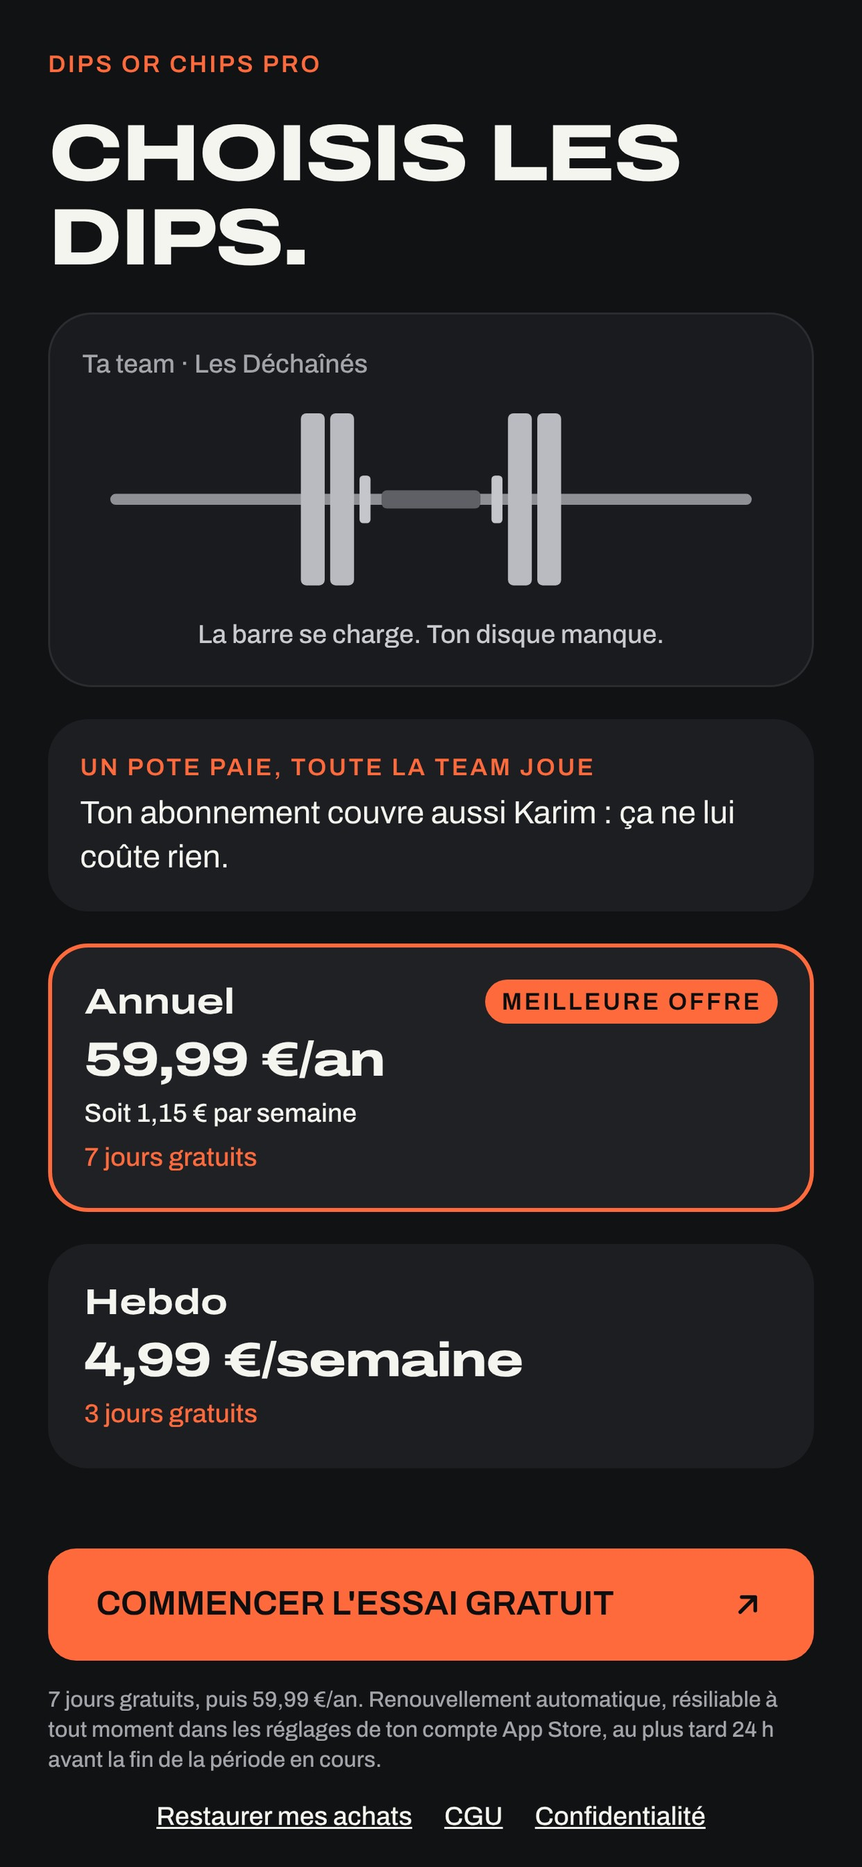
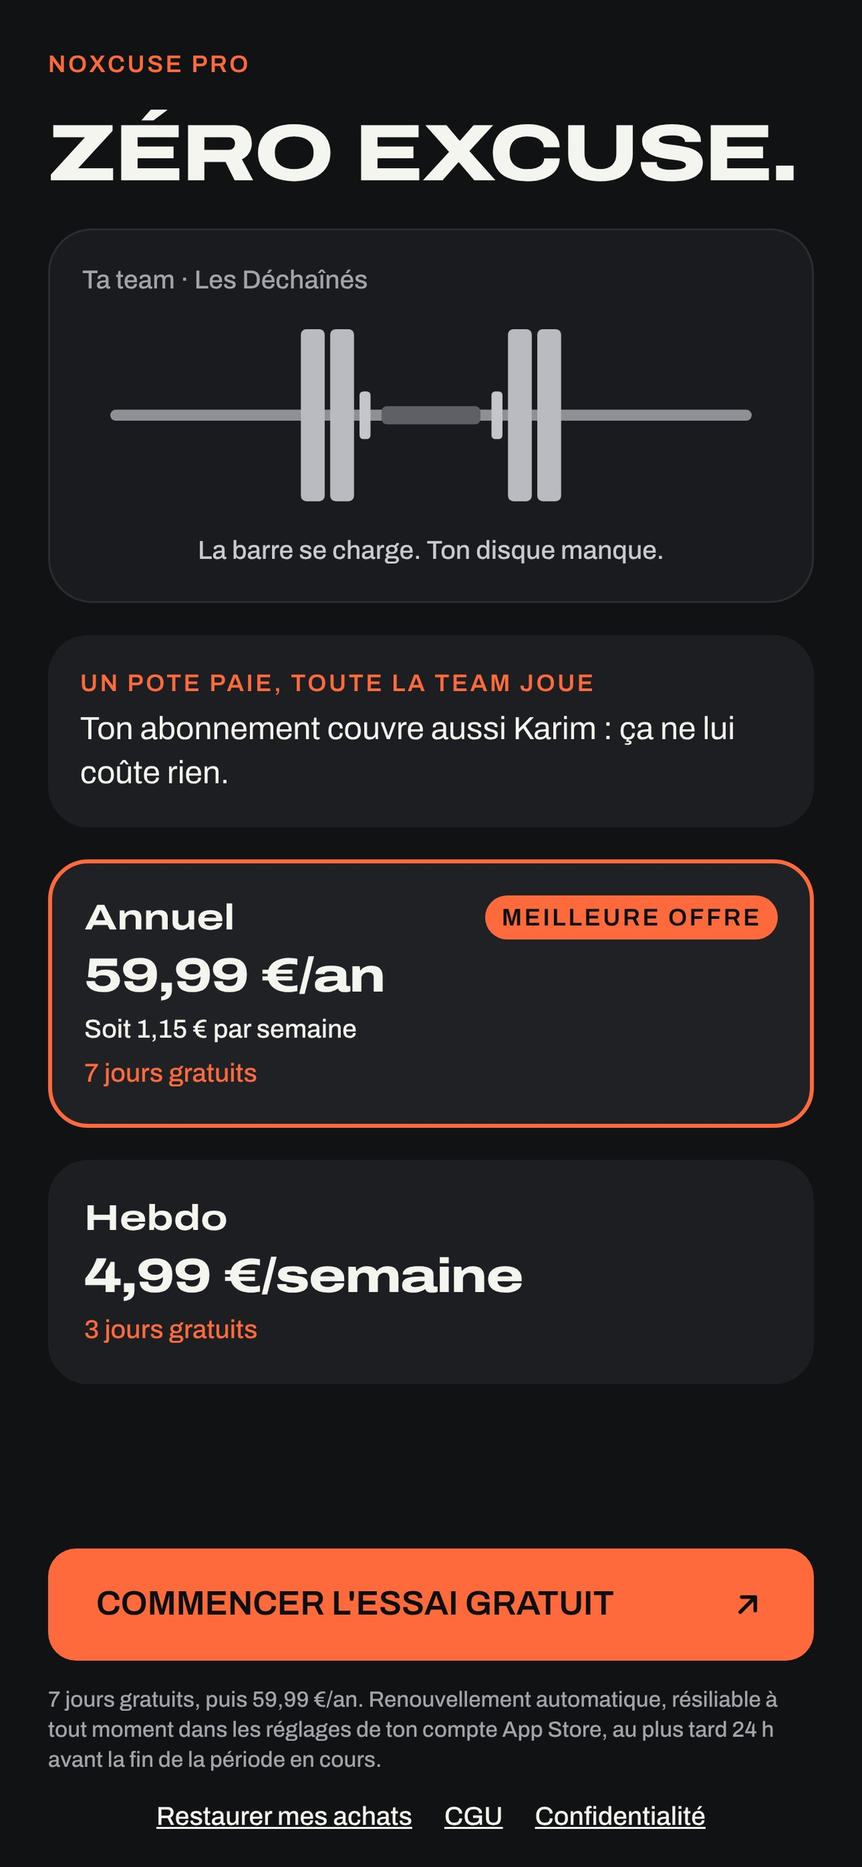
Rename the app to NOXCUSE
Brand, scheme (noxcuse://), iOS display name, paywall copy (ZÉRO EXCUSE. /
C'EST PARTI), legal site path, OSM identification and review screenshots.
Internal ids (bundle, products, storage keys) unchanged.

Claude-Session: https://claude.ai/code/session_01XQSCL7HTtEjkA8txYiEgZE

Changed region(s): [[0.0306, 0.0312, 0.9485, 0.7812], [0.9179, 0.5938, 0.9485, 0.6562]]

diff --git a/docs/cgu/index.html b/docs/cgu/index.html
@@ -3,8 +3,8 @@
 <head>
 <meta charset="utf-8">
 <meta name="viewport" content="width=device-width, initial-scale=1">
-<title>CGU · Dips or Chips</title>
-<meta name="description" content="Dips or Chips : CGU">
+<title>CGU · NOXCUSE</title>
+<meta name="description" content="NOXCUSE : CGU">
 <style>
   :root { color-scheme: dark; --bg: #111214; --card: #1D1E22; --text: #F5F5F0; --muted: #A3A4A9; --accent: #FF6A3D; }
   * { box-sizing: border-box; }
@@ -25,17 +25,17 @@
 </head>
 <body>
 <main>
-<div class="brand">Dips or Chips</div>
+<div class="brand">NOXCUSE</div>
 <h1>Conditions d’utilisation.</h1>
-<nav><a href="https://pulseaiagency.github.io/dipsorchips/">Support</a><a href="https://pulseaiagency.github.io/dipsorchips/confidentialite/">Confidentialité</a><a href="https://pulseaiagency.github.io/dipsorchips/cgu/" aria-current="page">CGU</a><a href="https://pulseaiagency.github.io/dipsorchips/mentions-legales/">Mentions légales</a></nav>
-<section><h2>Le service</h2><p>Dips or Chips, édité par PulseAi Agency, est un jeu de motivation entre amis : tes séances de sport validées chargent la barre de ta team, et chaque semaine ratée vaut une carte SKIP.</p></section>
+<nav><a href="https://pulseaiagency.github.io/noxcuse/">Support</a><a href="https://pulseaiagency.github.io/noxcuse/confidentialite/">Confidentialité</a><a href="https://pulseaiagency.github.io/noxcuse/cgu/" aria-current="page">CGU</a><a href="https://pulseaiagency.github.io/noxcuse/mentions-legales/">Mentions légales</a></nav>
+<section><h2>Le service</h2><p>NOXCUSE, édité par PulseAi Agency, est un jeu de motivation entre amis : tes séances de sport validées chargent la barre de ta team, et chaque semaine ratée vaut une carte SKIP.</p></section>
 <section><h2>Ton compte</h2><p>Tu dois avoir au moins 15 ans. Ton compte est personnel. Tu restes responsable de ce que tu publies (pseudo, photo, nom de team).</p></section>
 <section><h2>Les règles du jeu</h2><p>Une séance compte si tu restes au moins 40 minutes dans ta salle, une fois par jour. Contourner le pointage (position simulée, salle inventée) est interdit et peut entraîner la suppression du compte.</p><p>Les cartes SKIP se moquent de l’excuse ou du canapé, jamais de la personne. Pas de harcèlement : un créateur de team peut exclure un membre, et tout le monde peut en signaler un.</p></section>
-<section><h2>Abonnement</h2><p>Dips or Chips est payant (formule annuelle ou hebdomadaire, offre Team), avec une période d’essai gratuite quand elle est proposée. Le paiement et le renouvellement automatique sont gérés par l’App Store ou Google Play ; tu peux résilier à tout moment depuis les réglages de ton compte store, au plus tard 24 h avant la fin de la période en cours.</p><p>Une formule annuelle ou hebdomadaire donne aussi l’accès, sans frais, aux autres joueurs de ta première team (celle que tu as créée ou rejointe en premier) tant qu’elle compte 4 joueurs au plus. L’offre Team donne l’accès à toute ta team, jusqu’à 8 joueurs. Ces accès durent tant que l’abonnement de celui qui paie est actif.</p></section>
-<section><h2>Santé</h2><p>Dips or Chips n’est pas un service médical. Adapte ton entraînement à ta condition physique ; en cas de blessure, utilise le joker et prends soin de toi.</p></section>
+<section><h2>Abonnement</h2><p>NOXCUSE est payant (formule annuelle ou hebdomadaire, offre Team), avec une période d’essai gratuite quand elle est proposée. Le paiement et le renouvellement automatique sont gérés par l’App Store ou Google Play ; tu peux résilier à tout moment depuis les réglages de ton compte store, au plus tard 24 h avant la fin de la période en cours.</p><p>Une formule annuelle ou hebdomadaire donne aussi l’accès, sans frais, aux autres joueurs de ta première team (celle que tu as créée ou rejointe en premier) tant qu’elle compte 4 joueurs au plus. L’offre Team donne l’accès à toute ta team, jusqu’à 8 joueurs. Ces accès durent tant que l’abonnement de celui qui paie est actif.</p></section>
+<section><h2>Santé</h2><p>NOXCUSE n’est pas un service médical. Adapte ton entraînement à ta condition physique ; en cas de blessure, utilise le joker et prends soin de toi.</p></section>
 <section><h2>Responsabilité et évolution</h2><p>Le service peut évoluer ou être interrompu pour maintenance. Le pointage dépend du GPS de ton téléphone et peut parfois se tromper : le plan B « Je suis à la salle » est là pour ça.</p><p>Ces conditions peuvent changer ; tout changement important sera annoncé dans l’app.</p></section>
 <section><h2>Contact et droit applicable</h2><p>Contact : <a href="mailto:contact.pulsaiagency@gmail.com">contact.pulsaiagency@gmail.com</a>. Droit français. En cas de litige, une solution amiable sera recherchée avant toute action.</p></section>
-<footer>Dips or Chips · le jeu de muscu entre potes.</footer>
+<footer>NOXCUSE · le jeu de muscu entre potes.</footer>
 </main>
 </body>
 </html>

diff --git a/docs/confidentialite/index.html b/docs/confidentialite/index.html
@@ -3,8 +3,8 @@
 <head>
 <meta charset="utf-8">
 <meta name="viewport" content="width=device-width, initial-scale=1">
-<title>Confidentialité · Dips or Chips</title>
-<meta name="description" content="Dips or Chips : Confidentialité">
+<title>Confidentialité · NOXCUSE</title>
+<meta name="description" content="NOXCUSE : Confidentialité">
 <style>
   :root { color-scheme: dark; --bg: #111214; --card: #1D1E22; --text: #F5F5F0; --muted: #A3A4A9; --accent: #FF6A3D; }
   * { box-sizing: border-box; }
@@ -25,10 +25,10 @@
 </head>
 <body>
 <main>
-<div class="brand">Dips or Chips</div>
+<div class="brand">NOXCUSE</div>
 <h1>Politique de confidentialité.</h1>
-<nav><a href="https://pulseaiagency.github.io/dipsorchips/">Support</a><a href="https://pulseaiagency.github.io/dipsorchips/confidentialite/" aria-current="page">Confidentialité</a><a href="https://pulseaiagency.github.io/dipsorchips/cgu/">CGU</a><a href="https://pulseaiagency.github.io/dipsorchips/mentions-legales/">Mentions légales</a></nav>
-<section><h2>Qui est responsable</h2><p>Dips or Chips est édité par PulseAi Agency. Pour toute question sur tes données : <a href="mailto:contact.pulsaiagency@gmail.com">contact.pulsaiagency@gmail.com</a>.</p></section>
+<nav><a href="https://pulseaiagency.github.io/noxcuse/">Support</a><a href="https://pulseaiagency.github.io/noxcuse/confidentialite/" aria-current="page">Confidentialité</a><a href="https://pulseaiagency.github.io/noxcuse/cgu/">CGU</a><a href="https://pulseaiagency.github.io/noxcuse/mentions-legales/">Mentions légales</a></nav>
+<section><h2>Qui est responsable</h2><p>NOXCUSE est édité par PulseAi Agency. Pour toute question sur tes données : <a href="mailto:contact.pulsaiagency@gmail.com">contact.pulsaiagency@gmail.com</a>.</p></section>
 <section><h2>Ta position ne quitte jamais ton téléphone</h2><p>Pour savoir si tu es à ta salle, ton téléphone compare sa position à celle de ta salle (cercle de 150 m). Ce calcul se fait sur le téléphone.</p><p>Le serveur ne reçoit jamais de coordonnées GPS : seulement l’identifiant de ta salle et l’heure d’arrivée et de départ de ta séance. Aucun trajet n’est enregistré.</p><p>Pour chercher une salle « autour de moi », ton téléphone interroge directement le moteur de recherche d’OpenStreetMap (Nominatim) avec une position arrondie à environ 1 km. Nos serveurs ne la reçoivent que si ce moteur ne répond pas, et ne la conservent jamais.</p></section>
 <section><h2>Ce que l’on stocke</h2><p>Ton compte (adresse e-mail ou identifiant Apple / Google), ton pseudo, ta photo si tu en ajoutes une, ton titre, ton objectif hebdomadaire et tes réponses de l’écran d’accueil.</p><p>Les salles que tu as choisies (salles publiques issues d’OpenStreetMap), tes séances validées (date, heures, durée, salle), tes teams, spots, jokers, cartes SKIP, bilans et trophées.</p><p>Le jeton de notification de ton téléphone, tes préférences (notifications, sons, vibrations) et l’état de ton abonnement.</p></section>
 <section><h2>Ce que ta team voit</h2><p>Ton pseudo, ta photo, ton titre, ta carte de lifter, ton compteur de la semaine (par exemple 2/3) et un statut du jour : « Fait », « À la salle » ou « Pas encore ».</p><p>Ta team ne voit jamais ta salle, ton heure d’arrivée ni ta position.</p></section>
@@ -36,7 +36,7 @@
 <section><h2>Prestataires</h2><p>Supabase (hébergement de la base de données et des fonctions serveur, région Paris), Expo (acheminement des notifications), RevenueCat, Apple et Google (abonnements et connexion), OpenStreetMap (Nominatim et Overpass pour la recherche de salles, avec une position arrondie à ~1 km ; API OpenStreetMap pour vérifier la salle choisie).</p></section>
 <section><h2>Durée de conservation</h2><p>Tes données sont conservées tant que ton compte existe. Quand tu supprimes ton compte depuis l’app (Réglages → Supprimer mon compte), elles sont effacées immédiatement et définitivement.</p></section>
 <section><h2>Tes droits</h2><p>Tu peux accéder à tes données (écran « Tes données »), les corriger (Réglages), les supprimer (Supprimer mon compte) et t’opposer aux notifications à tout moment. Pour toute autre demande : <a href="mailto:contact.pulsaiagency@gmail.com">contact.pulsaiagency@gmail.com</a>. Tu peux aussi saisir la CNIL (cnil.fr).</p></section>
-<footer>Dips or Chips · le jeu de muscu entre potes.</footer>
+<footer>NOXCUSE · le jeu de muscu entre potes.</footer>
 </main>
 </body>
 </html>

diff --git a/docs/mentions-legales/index.html b/docs/mentions-legales/index.html
@@ -3,8 +3,8 @@
 <head>
 <meta charset="utf-8">
 <meta name="viewport" content="width=device-width, initial-scale=1">
-<title>Mentions légales · Dips or Chips</title>
-<meta name="description" content="Dips or Chips : Mentions légales">
+<title>Mentions légales · NOXCUSE</title>
+<meta name="description" content="NOXCUSE : Mentions légales">
 <style>
   :root { color-scheme: dark; --bg: #111214; --card: #1D1E22; --text: #F5F5F0; --muted: #A3A4A9; --accent: #FF6A3D; }
   * { box-sizing: border-box; }
@@ -25,14 +25,14 @@
 </head>
 <body>
 <main>
-<div class="brand">Dips or Chips</div>
+<div class="brand">NOXCUSE</div>
 <h1>Mentions légales.</h1>
-<nav><a href="https://pulseaiagency.github.io/dipsorchips/">Support</a><a href="https://pulseaiagency.github.io/dipsorchips/confidentialite/">Confidentialité</a><a href="https://pulseaiagency.github.io/dipsorchips/cgu/">CGU</a><a href="https://pulseaiagency.github.io/dipsorchips/mentions-legales/" aria-current="page">Mentions légales</a></nav>
-<section><h2>Éditeur</h2><p>Dips or Chips (application mobile et site <a href="https://pulseaiagency.github.io/dipsorchips/">https://pulseaiagency.github.io/dipsorchips/</a>) est édité par PulseAi Agency, entreprise individuelle.</p><p>Adresse : 60 rue François 1er, 75008 Paris, France.</p><p>SIRET : 508 598 778 00035.</p><p>Contact : <a href="mailto:contact.pulsaiagency@gmail.com">contact.pulsaiagency@gmail.com</a>.</p></section>
+<nav><a href="https://pulseaiagency.github.io/noxcuse/">Support</a><a href="https://pulseaiagency.github.io/noxcuse/confidentialite/">Confidentialité</a><a href="https://pulseaiagency.github.io/noxcuse/cgu/">CGU</a><a href="https://pulseaiagency.github.io/noxcuse/mentions-legales/" aria-current="page">Mentions légales</a></nav>
+<section><h2>Éditeur</h2><p>NOXCUSE (application mobile et site <a href="https://pulseaiagency.github.io/noxcuse/">https://pulseaiagency.github.io/noxcuse/</a>) est édité par PulseAi Agency, entreprise individuelle.</p><p>Adresse : 60 rue François 1er, 75008 Paris, France.</p><p>SIRET : 508 598 778 00035.</p><p>Contact : <a href="mailto:contact.pulsaiagency@gmail.com">contact.pulsaiagency@gmail.com</a>.</p></section>
 <section><h2>Directeur de la publication</h2><p>PulseAi Agency.</p></section>
 <section><h2>Hébergement</h2><p>Site : GitHub Pages, GitHub, Inc., 88 Colin P. Kelly Jr. Street, San Francisco, CA 94107, États-Unis (github.com).</p><p>Données de l’application : Supabase (supabase.com), serveurs situés à Paris (France).</p></section>
-<section><h2>Propriété intellectuelle</h2><p>Le nom Dips or Chips, le Canap’, les textes, illustrations et sons de l’application sont protégés. Toute reproduction sans autorisation est interdite. La police Archivo est distribuée sous licence SIL Open Font License ; les données des salles proviennent d’OpenStreetMap (© contributeurs OpenStreetMap, licence ODbL).</p></section>
-<footer>Dips or Chips · le jeu de muscu entre potes.</footer>
+<section><h2>Propriété intellectuelle</h2><p>Le nom NOXCUSE, le Canap’, les textes, illustrations et sons de l’application sont protégés. Toute reproduction sans autorisation est interdite. La police Archivo est distribuée sous licence SIL Open Font License ; les données des salles proviennent d’OpenStreetMap (© contributeurs OpenStreetMap, licence ODbL).</p></section>
+<footer>NOXCUSE · le jeu de muscu entre potes.</footer>
 </main>
 </body>
 </html>

diff --git a/docs/index.html b/docs/index.html
@@ -3,8 +3,8 @@
 <head>
 <meta charset="utf-8">
 <meta name="viewport" content="width=device-width, initial-scale=1">
-<title>Support · Dips or Chips</title>
-<meta name="description" content="Dips or Chips : Support">
+<title>Support · NOXCUSE</title>
+<meta name="description" content="NOXCUSE : Support">
 <style>
   :root { color-scheme: dark; --bg: #111214; --card: #1D1E22; --text: #F5F5F0; --muted: #A3A4A9; --accent: #FF6A3D; }
   * { box-sizing: border-box; }
@@ -25,15 +25,15 @@
 </head>
 <body>
 <main>
-<div class="brand">Dips or Chips</div>
-<h1>Dips or Chips.</h1>
-<nav><a href="https://pulseaiagency.github.io/dipsorchips/" aria-current="page">Support</a><a href="https://pulseaiagency.github.io/dipsorchips/confidentialite/">Confidentialité</a><a href="https://pulseaiagency.github.io/dipsorchips/cgu/">CGU</a><a href="https://pulseaiagency.github.io/dipsorchips/mentions-legales/">Mentions légales</a></nav>
-<section><h2>C’est quoi ?</h2><p>Dips or Chips est un jeu de motivation entre potes : chaque séance de muscu validée charge un disque sur la barre de ta team, et chaque semaine ratée vaut une carte SKIP signée le Canap’.</p></section>
+<div class="brand">NOXCUSE</div>
+<h1>NOXCUSE.</h1>
+<nav><a href="https://pulseaiagency.github.io/noxcuse/" aria-current="page">Support</a><a href="https://pulseaiagency.github.io/noxcuse/confidentialite/">Confidentialité</a><a href="https://pulseaiagency.github.io/noxcuse/cgu/">CGU</a><a href="https://pulseaiagency.github.io/noxcuse/mentions-legales/">Mentions légales</a></nav>
+<section><h2>C’est quoi ?</h2><p>NOXCUSE est un jeu de motivation entre potes : chaque séance de muscu validée charge un disque sur la barre de ta team, et chaque semaine ratée vaut une carte SKIP signée le Canap’.</p></section>
 <section><h2>Besoin d’aide ?</h2><p>Écris-nous : <a href="mailto:contact.pulsaiagency@gmail.com">contact.pulsaiagency@gmail.com</a>. On répond en général sous 48 h.</p></section>
 <section><h2>Gérer ou résilier ton abonnement</h2><p>Dans l’app : Réglages → Abonnement → Gérer mon abonnement. Ou sur iPhone : Réglages → ton nom → Abonnements. La résiliation doit être faite au plus tard 24 h avant la fin de la période en cours.</p></section>
 <section><h2>Supprimer ton compte</h2><p>Dans l’app : Réglages → Supprimer mon compte. Toutes tes données sont effacées immédiatement. Ton abonnement store n’est pas résilié automatiquement : pense à le résilier aussi.</p></section>
 <section><h2>Ta position</h2><p>Ta position ne quitte jamais ton téléphone : le serveur reçoit seulement l’identifiant de ta salle et les heures de ta séance. Détails dans la politique de confidentialité.</p></section>
-<footer>Dips or Chips · le jeu de muscu entre potes.</footer>
+<footer>NOXCUSE · le jeu de muscu entre potes.</footer>
 </main>
 </body>
 </html>

diff --git a/src/domain/teams.test.ts b/src/domain/teams.test.ts
@@ -20,28 +20,24 @@ describe('invite codes', () => {
   });
 
   it('extracts codes from links', () => {
-    expect(extractInviteCode('dipsorchips://join/ABCD2345')).toBe('ABCD2345');
-    expect(extractInviteCode('https://dipsorchips.app/join/abcd-2345?utm=x')).toBe('ABCD2345');
-    expect(extractInviteCode('Rejoins-nous ! https://dipsorchips.app/join/ABCD2345')).toBe(
-      'ABCD2345',
-    );
+    expect(extractInviteCode('noxcuse://join/ABCD2345')).toBe('ABCD2345');
+    expect(extractInviteCode('https://noxcuse.app/join/abcd-2345?utm=x')).toBe('ABCD2345');
+    expect(extractInviteCode('Rejoins-nous ! https://noxcuse.app/join/ABCD2345')).toBe('ABCD2345');
     expect(extractInviteCode('abcd2345')).toBe('ABCD2345');
     expect(extractInviteCode('pas un code')).toBeNull();
   });
 
   it('formats and builds links', () => {
     expect(formatInviteCode('ABCD2345')).toBe('ABCD-2345');
-    expect(inviteUrl('ABCD2345')).toBe('dipsorchips://join/ABCD2345');
-    expect(inviteUrl('ABCD2345', 'dipsorchips.app')).toBe('https://dipsorchips.app/join/ABCD2345');
-    expect(posterInviteLabel('ABCD2345')).toBe(
-      'Rejoins la team sur Dips or Chips · code ABCD-2345',
+    expect(inviteUrl('ABCD2345')).toBe('noxcuse://join/ABCD2345');
+    expect(inviteUrl('ABCD2345', 'noxcuse.app')).toBe('https://noxcuse.app/join/ABCD2345');
+    expect(posterInviteLabel('ABCD2345')).toBe('Rejoins la team sur NOXCUSE · code ABCD-2345');
+    expect(posterInviteLabel('ABCD2345', 'noxcuse.app')).toBe(
+      'Rejoins la team → noxcuse.app/join/ABCD2345',
     );
-    expect(posterInviteLabel('ABCD2345', 'dipsorchips.app')).toBe(
-      'Rejoins la team → dipsorchips.app/join/ABCD2345',
-    );
-    const msg = inviteMessage('Les Déchaînés', 'ABCD2345', 'dipsorchips.app');
+    const msg = inviteMessage('Les Déchaînés', 'ABCD2345', 'noxcuse.app');
     expect(msg).toContain('« Les Déchaînés »');
-    expect(msg).toContain('https://dipsorchips.app/join/ABCD2345');
+    expect(msg).toContain('https://noxcuse.app/join/ABCD2345');
     expect(msg).toContain('Code : ABCD-2345');
   });
 });

diff --git a/app.config.ts b/app.config.ts
@@ -21,13 +21,13 @@ export default ({ config }: ConfigContext): ExpoConfig => {
   return {
     ...config,
     // Store / system name; the home-screen label is shortened below (iOS truncates ~12 chars).
-    name: 'Dips or Chips',
+    name: 'NOXCUSE',
     owner: 'noskip-app',
     slug: 'noskip',
     version: '1.0.0',
     orientation: 'portrait',
     icon: './assets/images/icon.png',
-    scheme: 'dipsorchips',
+    scheme: 'noxcuse',
     userInterfaceStyle: 'dark',
     backgroundColor: '#111214',
     ios: {
@@ -36,7 +36,7 @@ export default ({ config }: ConfigContext): ExpoConfig => {
       usesAppleSignIn: true,
       // HTTPS only: exempt from export compliance (no questionnaire on each TestFlight upload).
       config: { usesNonExemptEncryption: false },
-      infoPlist: { CFBundleDisplayName: 'DipsOrChips' },
+      infoPlist: { CFBundleDisplayName: 'NOXCUSE' },
       ...(inviteHost ? { associatedDomains: [`applinks:${inviteHost}`] } : {}),
     },
     android: {
@@ -83,7 +83,7 @@ export default ({ config }: ConfigContext): ExpoConfig => {
           isAndroidBackgroundLocationEnabled: true,
           isAndroidForegroundServiceEnabled: false,
           locationWhenInUsePermission:
-            "Dips or Chips vérifie juste que t'es à ta salle. Ta team voit « venu » ou « pas venu », jamais où t'es.",
+            "NOXCUSE vérifie juste que t'es à ta salle. Ta team voit « venu » ou « pas venu », jamais où t'es.",
           locationAlwaysAndWhenInUsePermission:
             'Pour pointer ta séance tout seul, même téléphone en poche. Ta position ne quitte jamais ton téléphone.',
         },

diff --git a/content/brand.ts b/content/brand.ts
@@ -3,8 +3,8 @@
 // see them and changing them would break stored data, purchases or the EAS project link.
 
 /** Full name: App Store title, legal texts, share messages. */
-export const APP_NAME = 'Dips or Chips';
+export const APP_NAME = 'NOXCUSE';
 /** Logo / poster wordmark. */
-export const APP_WORDMARK = 'DIPS OR CHIPS';
-/** Deep-link scheme (`dipsorchips://join/<code>`, `dipsorchips://auth-callback`). */
-export const APP_SCHEME = 'dipsorchips';
+export const APP_WORDMARK = 'NOXCUSE';
+/** Deep-link scheme (`noxcuse://join/<code>`, `noxcuse://auth-callback`). */
+export const APP_SCHEME = 'noxcuse';

diff --git a/src/__tests__/screens/paywall.test.tsx b/src/__tests__/screens/paywall.test.tsx
@@ -106,7 +106,7 @@ describe('paywall', () => {
     await render(<PaywallScreen />);
     await fireEvent.press(screen.getByRole('button', { name: 'Plus de 4 joueurs ?' }));
     await fireEvent.press(screen.getByRole('radio', { name: 'Team, 149,99 €/an' }));
-    await fireEvent.press(screen.getByRole('button', { name: 'CHOISIR LES DIPS' }));
+    await fireEvent.press(screen.getByRole('button', { name: "C'EST PARTI" }));
     await waitFor(() => expect(mockBuy).toHaveBeenCalled());
     expect(mockBuy.mock.calls[0][0]).toMatchObject({ teamId: 'team-1' });
   });

diff --git a/src/domain/teams.ts b/src/domain/teams.ts
@@ -14,7 +14,7 @@ export function normalizeInviteCode(input: string): string | null {
   return code.length === INVITE_CODE_LENGTH && ALPHABET.test(code) ? code : null;
 }
 
-/** Pulls a code out of anything pasted: a bare code, dipsorchips://join/X or https://host/join/X. */
+/** Pulls a code out of anything pasted: a bare code, noxcuse://join/X or https://host/join/X. */
 export function extractInviteCode(input: string): string | null {
   const fromLink = /join\/([A-Za-z0-9-]{8,9})/.exec(input);
   return normalizeInviteCode(fromLink ? fromLink[1] : input.trim());

diff --git a/supabase/functions/search-gyms/overpass.ts b/supabase/functions/search-gyms/overpass.ts
@@ -93,8 +93,8 @@ export const OVERPASS_HEADERS = {
   'Content-Type': 'application/x-www-form-urlencoded',
   Accept: 'application/json',
   'User-Agent':
-    'DipsOrChips/1.0 (gym search for a fitness app; +https://pulseaiagency.github.io/dipsorchips/)',
-  Referer: 'https://pulseaiagency.github.io/dipsorchips/',
+    'Noxcuse/1.0 (gym search for a fitness app; +https://pulseaiagency.github.io/noxcuse/)',
+  Referer: 'https://pulseaiagency.github.io/noxcuse/',
 } as const;
 
 export async function runOverpass(

diff --git a/src/app/join/[code].tsx b/src/app/join/[code].tsx
@@ -15,7 +15,7 @@ import { useAcceptTeamRules, useJoinTeam, useTeamPreview } from '@/features/team
 import { toUserMessage } from '@/lib/errors';
 import { colors, radii, spacing } from '@/theme/tokens';
 
-/** Deep link dipsorchips://join/<code> (and https://<host>/join/<code>). */
+/** Deep link noxcuse://join/<code> (and https://<host>/join/<code>). */
 export default function JoinScreen() {
   const params = useLocalSearchParams<{ code: string }>();
   const code = normalizeInviteCode(params.code ?? '');

diff --git a/src/app/auth-callback.tsx b/src/app/auth-callback.tsx
@@ -9,7 +9,7 @@ import { Text } from '@/components/ui/Text';
 import { completeAuthCallback } from '@/features/auth/signIn';
 import { toUserMessage } from '@/lib/errors';
 
-/** Landing for the magic link: dipsorchips://auth-callback?code=… */
+/** Landing for the magic link: noxcuse://auth-callback?code=… */
 export default function AuthCallback() {
   const params = useLocalSearchParams<{ code?: string; error_description?: string }>();
   const [error, setError] = useState<string | null>(null);
